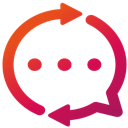
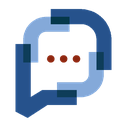
fix(pwa): substitui icone generico do PWA e remove travamentos no mobile
- Regenera todos os icones do manifest (favicons/android-chrome-*,
  apple-touch-icon, favicon.ico, public/images/icon-*) a partir do SVG
  oficial da marca, substituindo o placeholder de capelo de formatura
  que aparecia ao instalar o PWA no mobile. Bump de cache-bust
  (?v=icon-v2) no manifest e no sw.js para furar o cache do Cloudflare.
- Remove hijack de clique nos links de WhatsApp em vedium-language.js:
  o handler global fazia preventDefault()+location.href no mobile,
  travando a aba ao tentar abrir o WhatsApp. O <a target="_blank">
  nativo ja funciona sozinho.
- Corrige bug real em translateTextNodes(): a funcao ignorava o
  parametro de escopo (root) passado pelas chamadas, sempre percorrendo
  o document.body inteiro - inclusive duas vezes a cada troca de idioma
  (uma chamada com escopo + uma chamada redundante sem escopo logo
  depois). Agora respeita o escopo e remove a chamada duplicada.

diff --git a/vedium_core/vedium_core/public/js/vedium-language.js b/vedium_core/vedium_core/public/js/vedium-language.js
@@ -579,11 +579,12 @@
     return String(value || "").replace(/\s+/g, " ").trim();
   }
 
-  function translateTextNodes(lang) {
+  function translateTextNodes(lang, root) {
     var copy = localeCopy[lang];
     if (!copy) return;
+    var scope = root || document.body;
     var skip = "SCRIPT,STYLE,NOSCRIPT,IFRAME,SVG";
-    var walker = document.createTreeWalker(document.body, NodeFilter.SHOW_TEXT, {
+    var walker = document.createTreeWalker(scope, NodeFilter.SHOW_TEXT, {
       acceptNode: function (node) {
         if (!node.nodeValue || !normalizedText(node.nodeValue)) return NodeFilter.FILTER_REJECT;
         if (node.parentElement && node.parentElement.closest(skip)) return NodeFilter.FILTER_REJECT;
@@ -609,13 +610,25 @@
     // tradução de UI. O conteúdo permanece em pt-BR (correto para SEO/a11y);
     // traduzimos apenas as strings de interface do dicionário.
     //
-    // As páginas nativas EN (ex.: /en/learn-yoruba-online) têm translate="no"
-    // no <html> + <meta name="google" content="notranslate"> para impedir que
-    // o Chrome dispare sua engine ML de tradução (o que travava a aba). Com
-    // esse bloqueio no lugar, nossa tradução JS de UI (navbar/footer) pode
-    // correr normalmente sem competição com o tradutor nativo.
+    // Páginas SEO server-rendered nativas (ex.: /en/learn-yoruba-online) têm
+    // translate="no" + notranslate e o body já sai em inglês do servidor.
+    // Percorrer document.body inteiro com translateTextNodes nessas páginas
+    // trava o renderer (interação com scripts já ativos). Solução: traduzir
+    // apenas navbar e footer (escopo pequeno, único que tem texto em PT).
+    var pageLang = (document.documentElement.lang || "").toLowerCase();
+    var isNativeLangPage = pageLang && pageLang !== "pt" && pageLang !== "pt-br" && pageLang.indexOf(meta.lang) === 0;
     if (meta.lang !== "pt") {
-      translateTextNodes(meta.lang);
+      if (isNativeLangPage) {
+        // Traduz só shell (navbar + footer) — body já está no idioma correto
+        var shells = [
+          document.querySelector("header"),
+          document.querySelector("footer"),
+          document.querySelector(".main-header-one")
+        ].filter(function (el) { return el; });
+        shells.forEach(function (el) { translateTextNodes(meta.lang, el); });
+      } else {
+        translateTextNodes(meta.lang, document.body);
+      }
       window.dataLayer = window.dataLayer || [];
       window.dataLayer.push({ event: "language_selected", language: meta.lang, locale: locale });
     }
@@ -673,10 +686,9 @@
       if (!link) return;
       window.dataLayer = window.dataLayer || [];
       window.dataLayer.push({ event: "public_cta_click", location: link.getAttribute("data-vd-location") || "whatsapp_link", cta: "whatsapp" });
-      if (window.matchMedia("(hover: none)").matches || window.innerWidth <= 768) {
-        event.preventDefault();
-        window.location.href = link.href;
-      }
+      // NÃO chamar preventDefault()/location.href aqui: isso sequestra a navegação
+      // nativa do target="_blank" e trava a aba no mobile esperando o handshake do
+      // app do WhatsApp. O <a target="_blank" rel="noopener"> já funciona sozinho.
     }, true);
 
     document.addEventListener("keydown", function (event) {

diff --git a/vedium_core/vedium_core/public/js/sw.js b/vedium_core/vedium_core/public/js/sw.js
@@ -1,8 +1,8 @@
-const CACHE_NAME = 'vedium-static-v3';
+const CACHE_NAME = 'vedium-static-v4';
 const CACHEABLE_PATHS = [
     '/assets/vedium_core/vedium_assets/images/logos/Icone-color.png',
-    '/assets/vedium_core/vedium_assets/images/favicons/android-chrome-192x192.png',
-    '/assets/vedium_core/vedium_assets/images/favicons/android-chrome-512x512.png'
+    '/assets/vedium_core/vedium_assets/images/favicons/android-chrome-192x192.png?v=icon-v2',
+    '/assets/vedium_core/vedium_assets/images/favicons/android-chrome-512x512.png?v=icon-v2'
 ];
 const BYPASS_PREFIXES = [
     '/api/',
